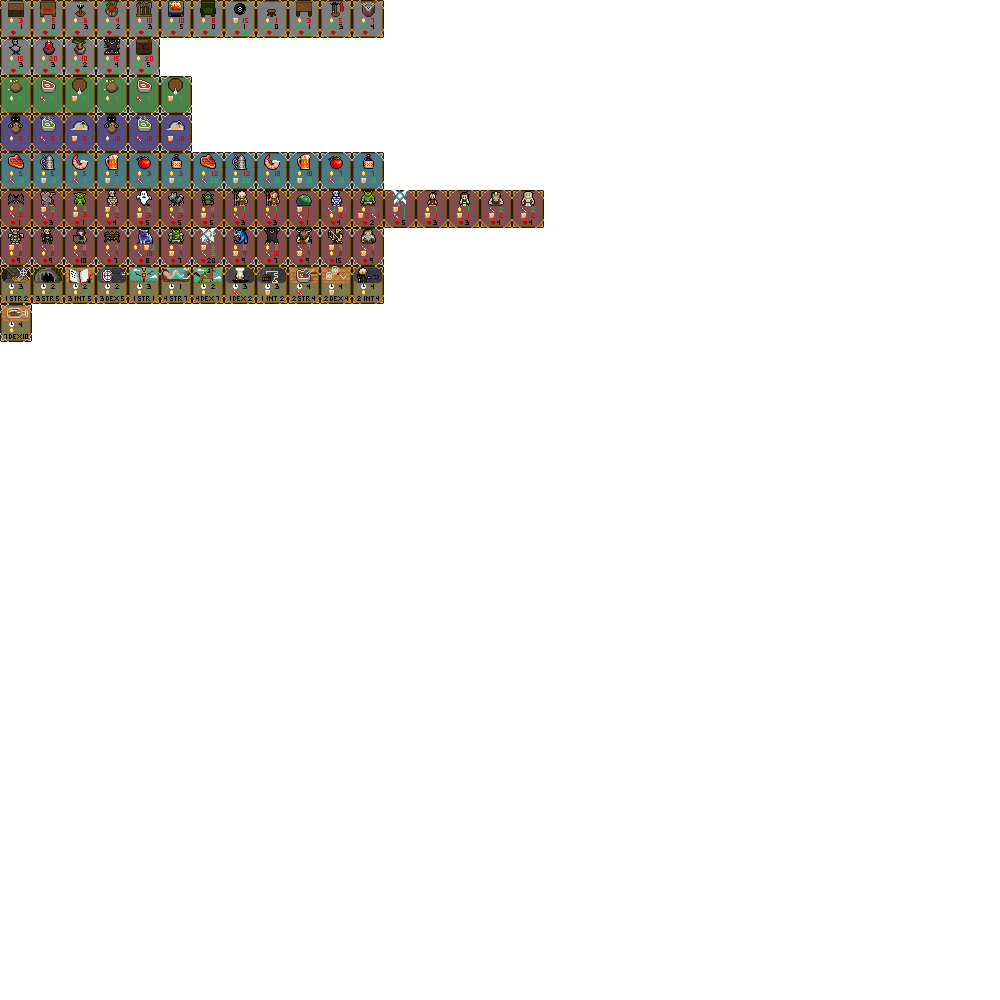
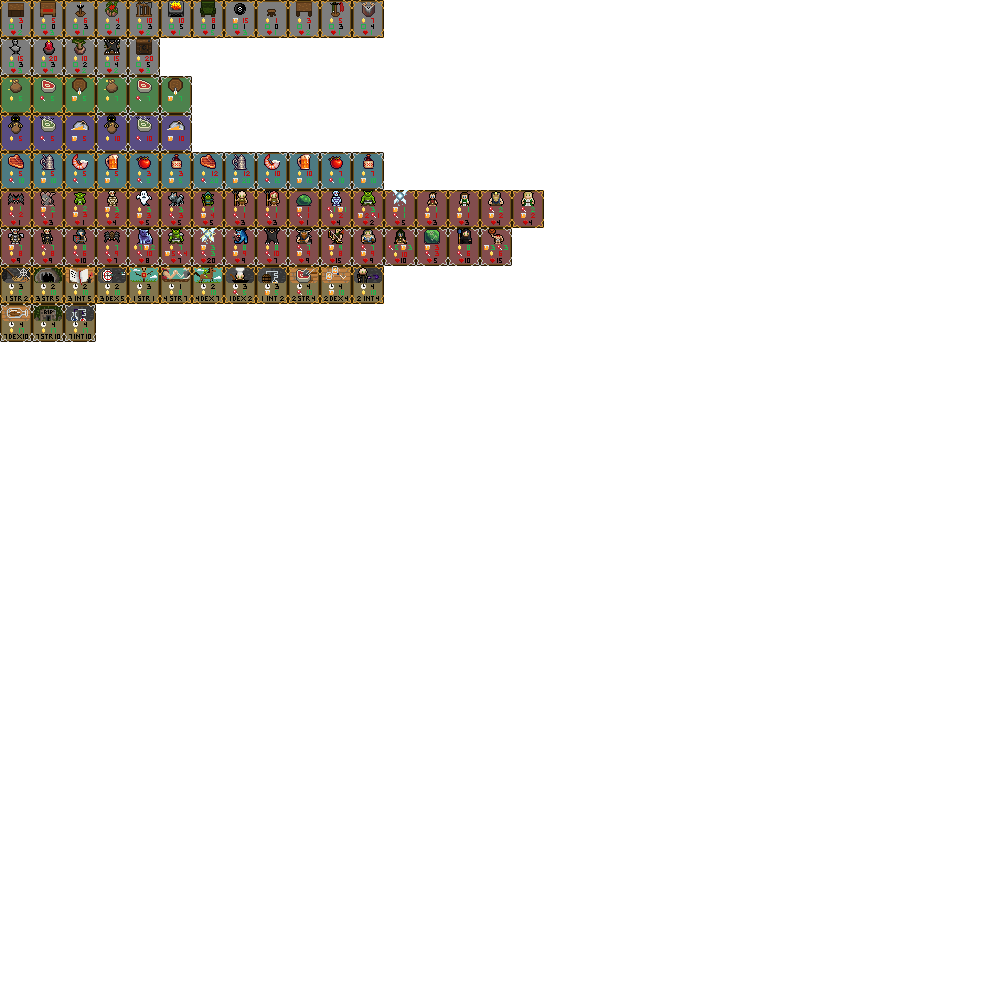
Added More Content

Changed region(s): [[0.372, 0.217, 0.527, 0.279], [0.031, 0.279, 0.093, 0.341]]

diff --git a/db.js b/db.js
@@ -77,7 +77,11 @@ var CHARCARDSPRITES = {
     "blackbear" : new Vector2D(8,6),
     "dwarfwarrior" : new Vector2D(9,6),
     "elfarcher" : new Vector2D(10,6),
-    "dwarfpriest" : new Vector2D(11,6)
+    "dwarfpriest" : new Vector2D(11,6),
+    "halflingburgler" : new Vector2D(12,6),
+    "slimecube" : new Vector2D(13, 6),
+    "humanmage" : new Vector2D(14, 6),
+    "headlessman" : new Vector2D(15,6)
 }
 
 var QUESTCARDSPRITES = {
@@ -93,7 +97,9 @@ var QUESTCARDSPRITES = {
     "tenderize" : new Vector2D(9,7),
     "beerpong" : new Vector2D(10,7),
     "learnspell" : new Vector2D(11,7),
-    "boatinabottle" : new Vector2D(0, 8)
+    "boatinabottle" : new Vector2D(0, 8),
+    "graverob" : new Vector2D(1,8),
+    "brewpotion" : new Vector2D(2,8)
 }
 
 var RSCTYPECHANCE = 0.5;
@@ -541,7 +547,7 @@ class Database
                                               new CharacterStats(3,3,3))); 
         this.charCardsUncommon.push(new CharacterCard(CHARCARDSPRITES["orcwarrior"].x, CHARCARDSPRITES["orcwarrior"].y,
                                               CHARCARDSPRITES["orcwarrior"].x, CHARCARDSPRITES["orcwarrior"].y, 7, 
-                                              [ new ResourceUpkeep(this.gold, 7), new ResourceUpkeep(this.beer, -9)], "Orc Warrior",
+                                              [ new ResourceUpkeep(this.gold, 7), new ResourceUpkeep(this.beer, -5), new ResourceUpkeep(this.food, -4)], "Orc Warrior",
                                               new CharacterStats(1,5,1)));   
         this.charCardsUncommon.push(new CharacterCard(CHARCARDSPRITES["greaterwillowisp"].x, CHARCARDSPRITES["greaterwillowisp"].y,
                                               CHARCARDSPRITES["greaterwillowisp"].x, CHARCARDSPRITES["greaterwillowisp"].y, 20, 
@@ -567,6 +573,23 @@ class Database
                                               CHARCARDSPRITES["dwarfpriest"].x, CHARCARDSPRITES["dwarfpriest"].y, 9, 
                                               [ new ResourceUpkeep(this.beer, -9), new ResourceUpkeep(this.food, 7) ], "Dwarf War Priest",
                                               new CharacterStats(3,4,1)));
+        this.charCardsUncommon.push(new CharacterCard(CHARCARDSPRITES["halflingburgler"].x, CHARCARDSPRITES["halflingburgler"].y,
+                                              CHARCARDSPRITES["halflingburgler"].x, CHARCARDSPRITES["halflingburgler"].y, 10, 
+                                              [ new ResourceUpkeep(this.beer, 3), new ResourceUpkeep(this.food, 5), new ResourceUpkeep(this.gold, -10) ], "Halfling Burgler",
+                                              new CharacterStats(3,1,5)));
+        this.charCardsUncommon.push(new CharacterCard(CHARCARDSPRITES["slimecube"].x, CHARCARDSPRITES["slimecube"].y,
+                                              CHARCARDSPRITES["slimecube"].x, CHARCARDSPRITES["slimecube"].y, 5, 
+                                              [ new ResourceUpkeep(this.beer, -3), new ResourceUpkeep(this.food, -3) ], "Giant Gelatinous Cube",
+                                              new CharacterStats(0,2,0)));
+        this.charCardsUncommon.push(new CharacterCard(CHARCARDSPRITES["humanmage"].x, CHARCARDSPRITES["humanmage"].y,
+                                              CHARCARDSPRITES["humanmage"].x, CHARCARDSPRITES["humanmage"].y, 10, 
+                                              [ new ResourceUpkeep(this.gold, 8), new ResourceUpkeep(this.food, -6) ], "Human Mage",
+                                              new CharacterStats(4,2,2)));
+        this.charCardsUncommon.push(new CharacterCard(CHARCARDSPRITES["headlessman"].x, CHARCARDSPRITES["headlessman"].y,
+                                              CHARCARDSPRITES["headlessman"].x, CHARCARDSPRITES["headlessman"].y, 15, 
+                                              [ new ResourceUpkeep(this.beer, 3), new ResourceUpkeep(this.food, 3), new ResourceUpkeep(this.gold, -6) ], "Headless Spooky Man",
+                                              new CharacterStats(4,1,1)));
+                                              
                                               
     }
 
@@ -611,6 +634,12 @@ class Database
                                         
         this.questCardsUncommon.push(new QuestCard(QUESTCARDSPRITES["boatinabottle"].x, QUESTCARDSPRITES["boatinabottle"].y,
                                        QUESTCARDSPRITES["boatinabottle"].x, QUESTCARDSPRITES["boatinabottle"].y,
-                                      7, 10, STATTYPE_DEX, 4, [new ResourceUpkeep(this.gold, 17)], "Build a Boat in a Bottle")); 
+                                      7, 10, STATTYPE_DEX, 4, [new ResourceUpkeep(this.gold, 17)], "Build a Boat in a Bottle"));
+        this.questCardsUncommon.push(new QuestCard(QUESTCARDSPRITES["graverob"].x, QUESTCARDSPRITES["graverob"].y,
+                                       QUESTCARDSPRITES["graverob"].x, QUESTCARDSPRITES["graverob"].y,
+                                      7, 10, STATTYPE_STR, 4, [new ResourceUpkeep(this.gold, 17)], "Grave Rob a Catacomb")); 
+        this.questCardsUncommon.push(new QuestCard(QUESTCARDSPRITES["brewpotion"].x, QUESTCARDSPRITES["brewpotion"].y,
+                                       QUESTCARDSPRITES["brewpotion"].x, QUESTCARDSPRITES["brewpotion"].y,
+                                      7, 10, STATTYPE_INT, 4, [new ResourceUpkeep(this.gold, 17)], "Brew a Potion")); 
     }
 }

diff --git a/model.js b/model.js
@@ -653,7 +653,8 @@ class CharacterCard extends Card
       }
       else
       {
-        ctx.fillStyle = this.IsSatisfied() ? "green" : "red";
+        let fillStyle = this.IsSatisfied() ? "green" : "red";
+        ctx.fillStyle = !this.IsSatisfied() && this.objectSatisfaction >= this.satisfactionThreshold ? "yellow" : fillStyle;
         sat = this.objectSatisfaction < 0 ? 0 : this.objectSatisfaction;
       }
         
